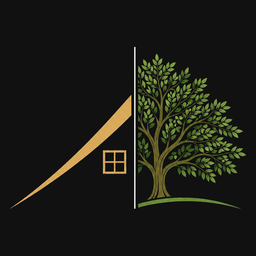
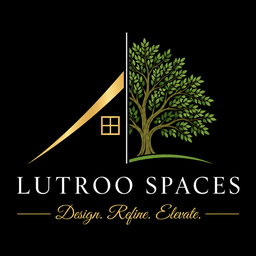
fix: use the complete Lutroo lockup as a single image
Stop rebuilding the brand from a cropped mark and web fonts. The
opening, header, and footer now show the full artwork — gold roof,
window, tree, LUTROO SPACES, and the script tagline — so none of
those details are replaced.

Changed region(s): [[0.0312, 0.125, 0.9688, 0.875], [0.125, 0.5625, 0.2188, 0.625]]

diff --git a/components/Logo.tsx b/components/Logo.tsx
@@ -2,45 +2,32 @@ import Image from 'next/image';
 import { studio } from '@/lib/site';
 
 type LogoProps = {
-  /** Compact lockup for the nav and footer; full artwork for the intro. */
-  variant?: 'full' | 'nav';
+  /** Same artwork everywhere — only the display size changes. */
+  variant?: 'full' | 'nav' | 'footer';
   className?: string;
 };
 
+/**
+ * The official lockup is a single image: gold roof and window, green tree,
+ * LUTROO SPACES, and the gold script tagline on black. It is never rebuilt
+ * from web fonts or a cropped mark, so every designed detail stays put.
+ */
 export default function Logo({ variant = 'full', className = '' }: LogoProps) {
-  if (variant === 'nav') {
-    return (
-      <span className={`flex items-center gap-3 ${className}`}>
-        <Image
-          src="/logo-mark.png"
-          alt=""
-          width={794}
-          height={553}
-          className="h-10 w-auto sm:h-12"
-          priority
-          unoptimized
-        />
-        <span className="text-left">
-          <span className="block font-display text-sm font-medium uppercase tracking-[0.28em] sm:text-base">
-            Lutroo <span className="font-light opacity-70">Spaces</span>
-          </span>
-          <span className="mt-1 hidden font-script text-[13px] normal-case tracking-normal opacity-80 sm:block">
-            {studio.tagline}
-          </span>
-        </span>
-      </span>
-    );
-  }
+  const sizes = {
+    full: 'h-auto w-[min(88vw,34rem)]',
+    nav: 'h-[4.75rem] w-auto sm:h-24',
+    footer: 'h-auto w-52 sm:w-64',
+  } as const;
 
   return (
     <Image
       src="/logo.png"
       alt={`${studio.name} — ${studio.tagline}`}
-      width={950}
-      height={890}
-      priority
-      className={`h-auto w-[min(88vw,30rem)] sm:w-[min(72vw,36rem)] ${className}`}
+      width={1024}
+      height={960}
+      priority={variant !== 'footer'}
       unoptimized
+      className={`${sizes[variant]} ${className}`}
     />
   );
 }

diff --git a/components/Hero.tsx b/components/Hero.tsx
@@ -18,7 +18,7 @@ export default function Hero() {
       <div className="absolute inset-0 bg-ink/30" />
       <div className="absolute inset-0 bg-gradient-to-b from-ink/70 via-ink/45 to-ink/85" />
 
-      <div className="relative mx-auto w-full max-w-[1400px] px-6 pb-14 pt-32 md:px-10">
+      <div className="relative mx-auto w-full max-w-[1400px] px-6 pb-14 pt-40 md:px-10">
         <p className="label animate-rise text-bone/80">
           {studio.discipline} · {contact.location}
         </p>

diff --git a/components/Footer.tsx b/components/Footer.tsx
@@ -7,7 +7,7 @@ export default function Footer() {
       <div className="mx-auto max-w-[1400px] px-6 py-20 md:px-10 md:py-24">
         <div className="grid gap-12 border-b border-bone/15 pb-16 md:grid-cols-12">
           <div className="md:col-span-5">
-            <Logo variant="nav" />
+            <Logo variant="footer" />
             <p className="mt-8 max-w-sm text-sm leading-relaxed text-bone/70">
               {studio.summary}
             </p>

diff --git a/components/Navbar.tsx b/components/Navbar.tsx
@@ -55,7 +55,7 @@ export default function Navbar() {
         <div
           ref={barRef}
           className={`mx-auto flex max-w-[1400px] items-center justify-between px-6 transition-all duration-500 md:px-10 ${
-            solid ? 'py-4' : 'py-6'
+            solid ? 'py-2.5' : 'py-3'
           }`}
         >
           <a
